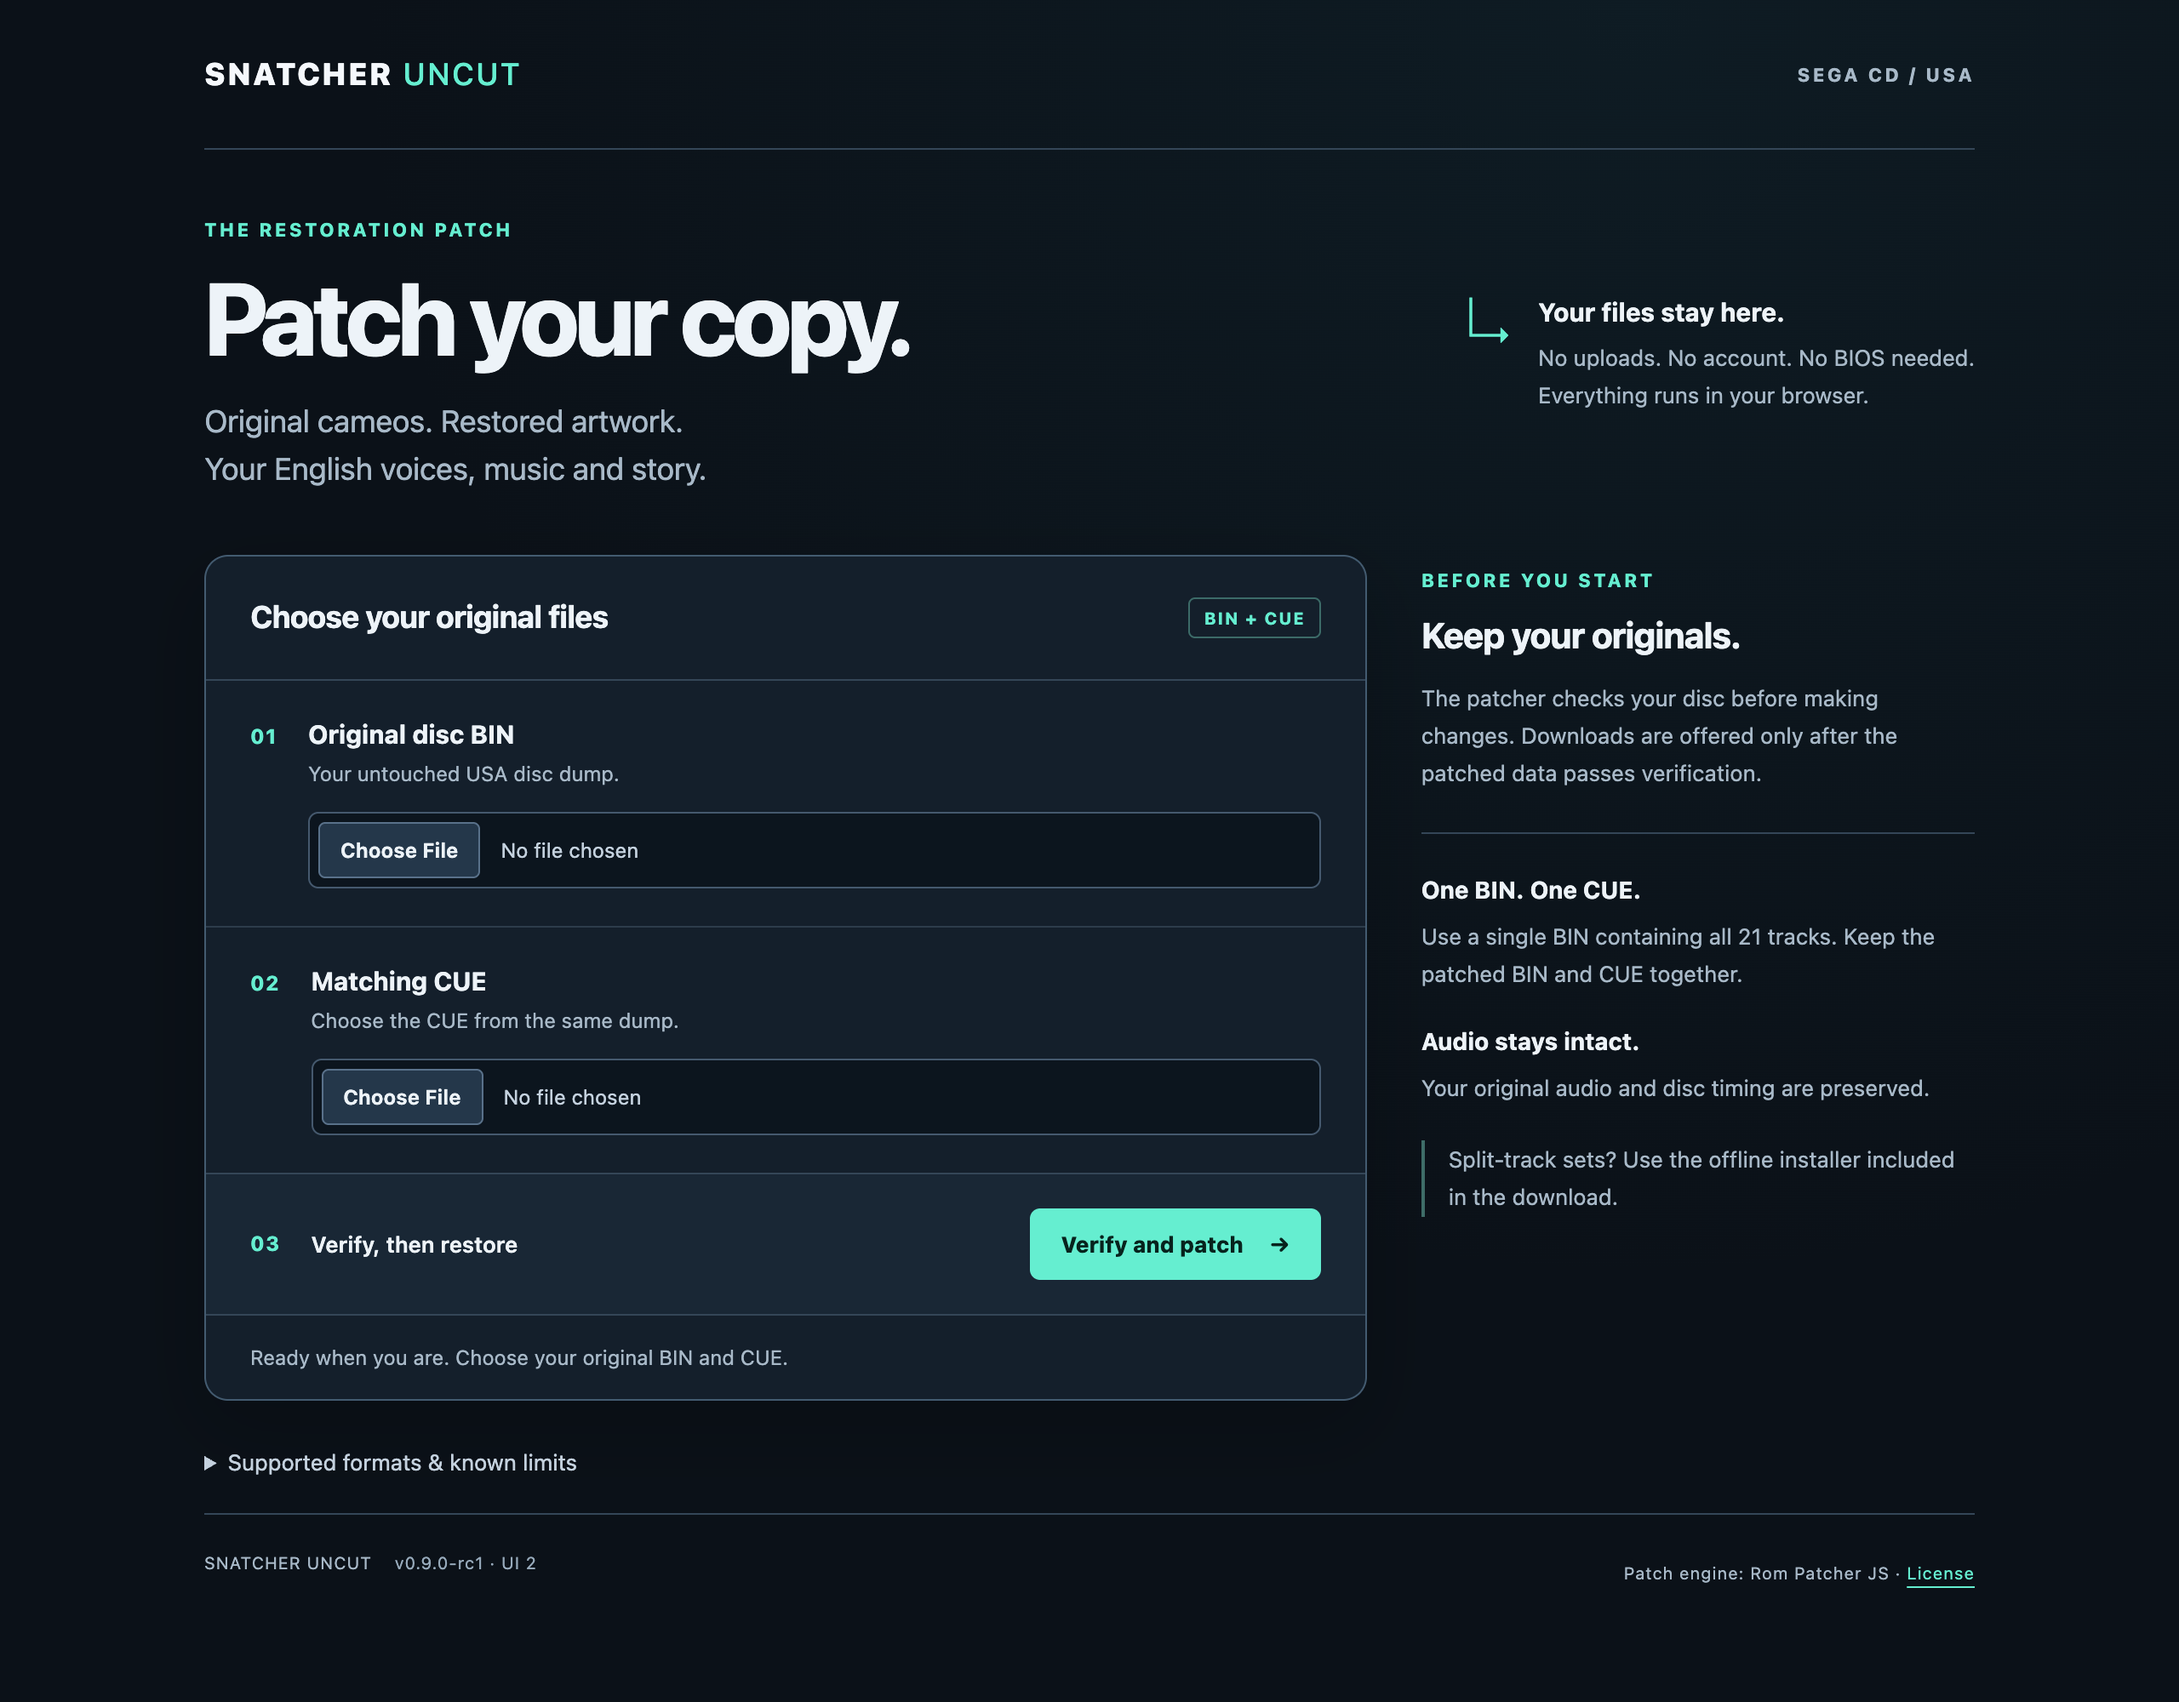
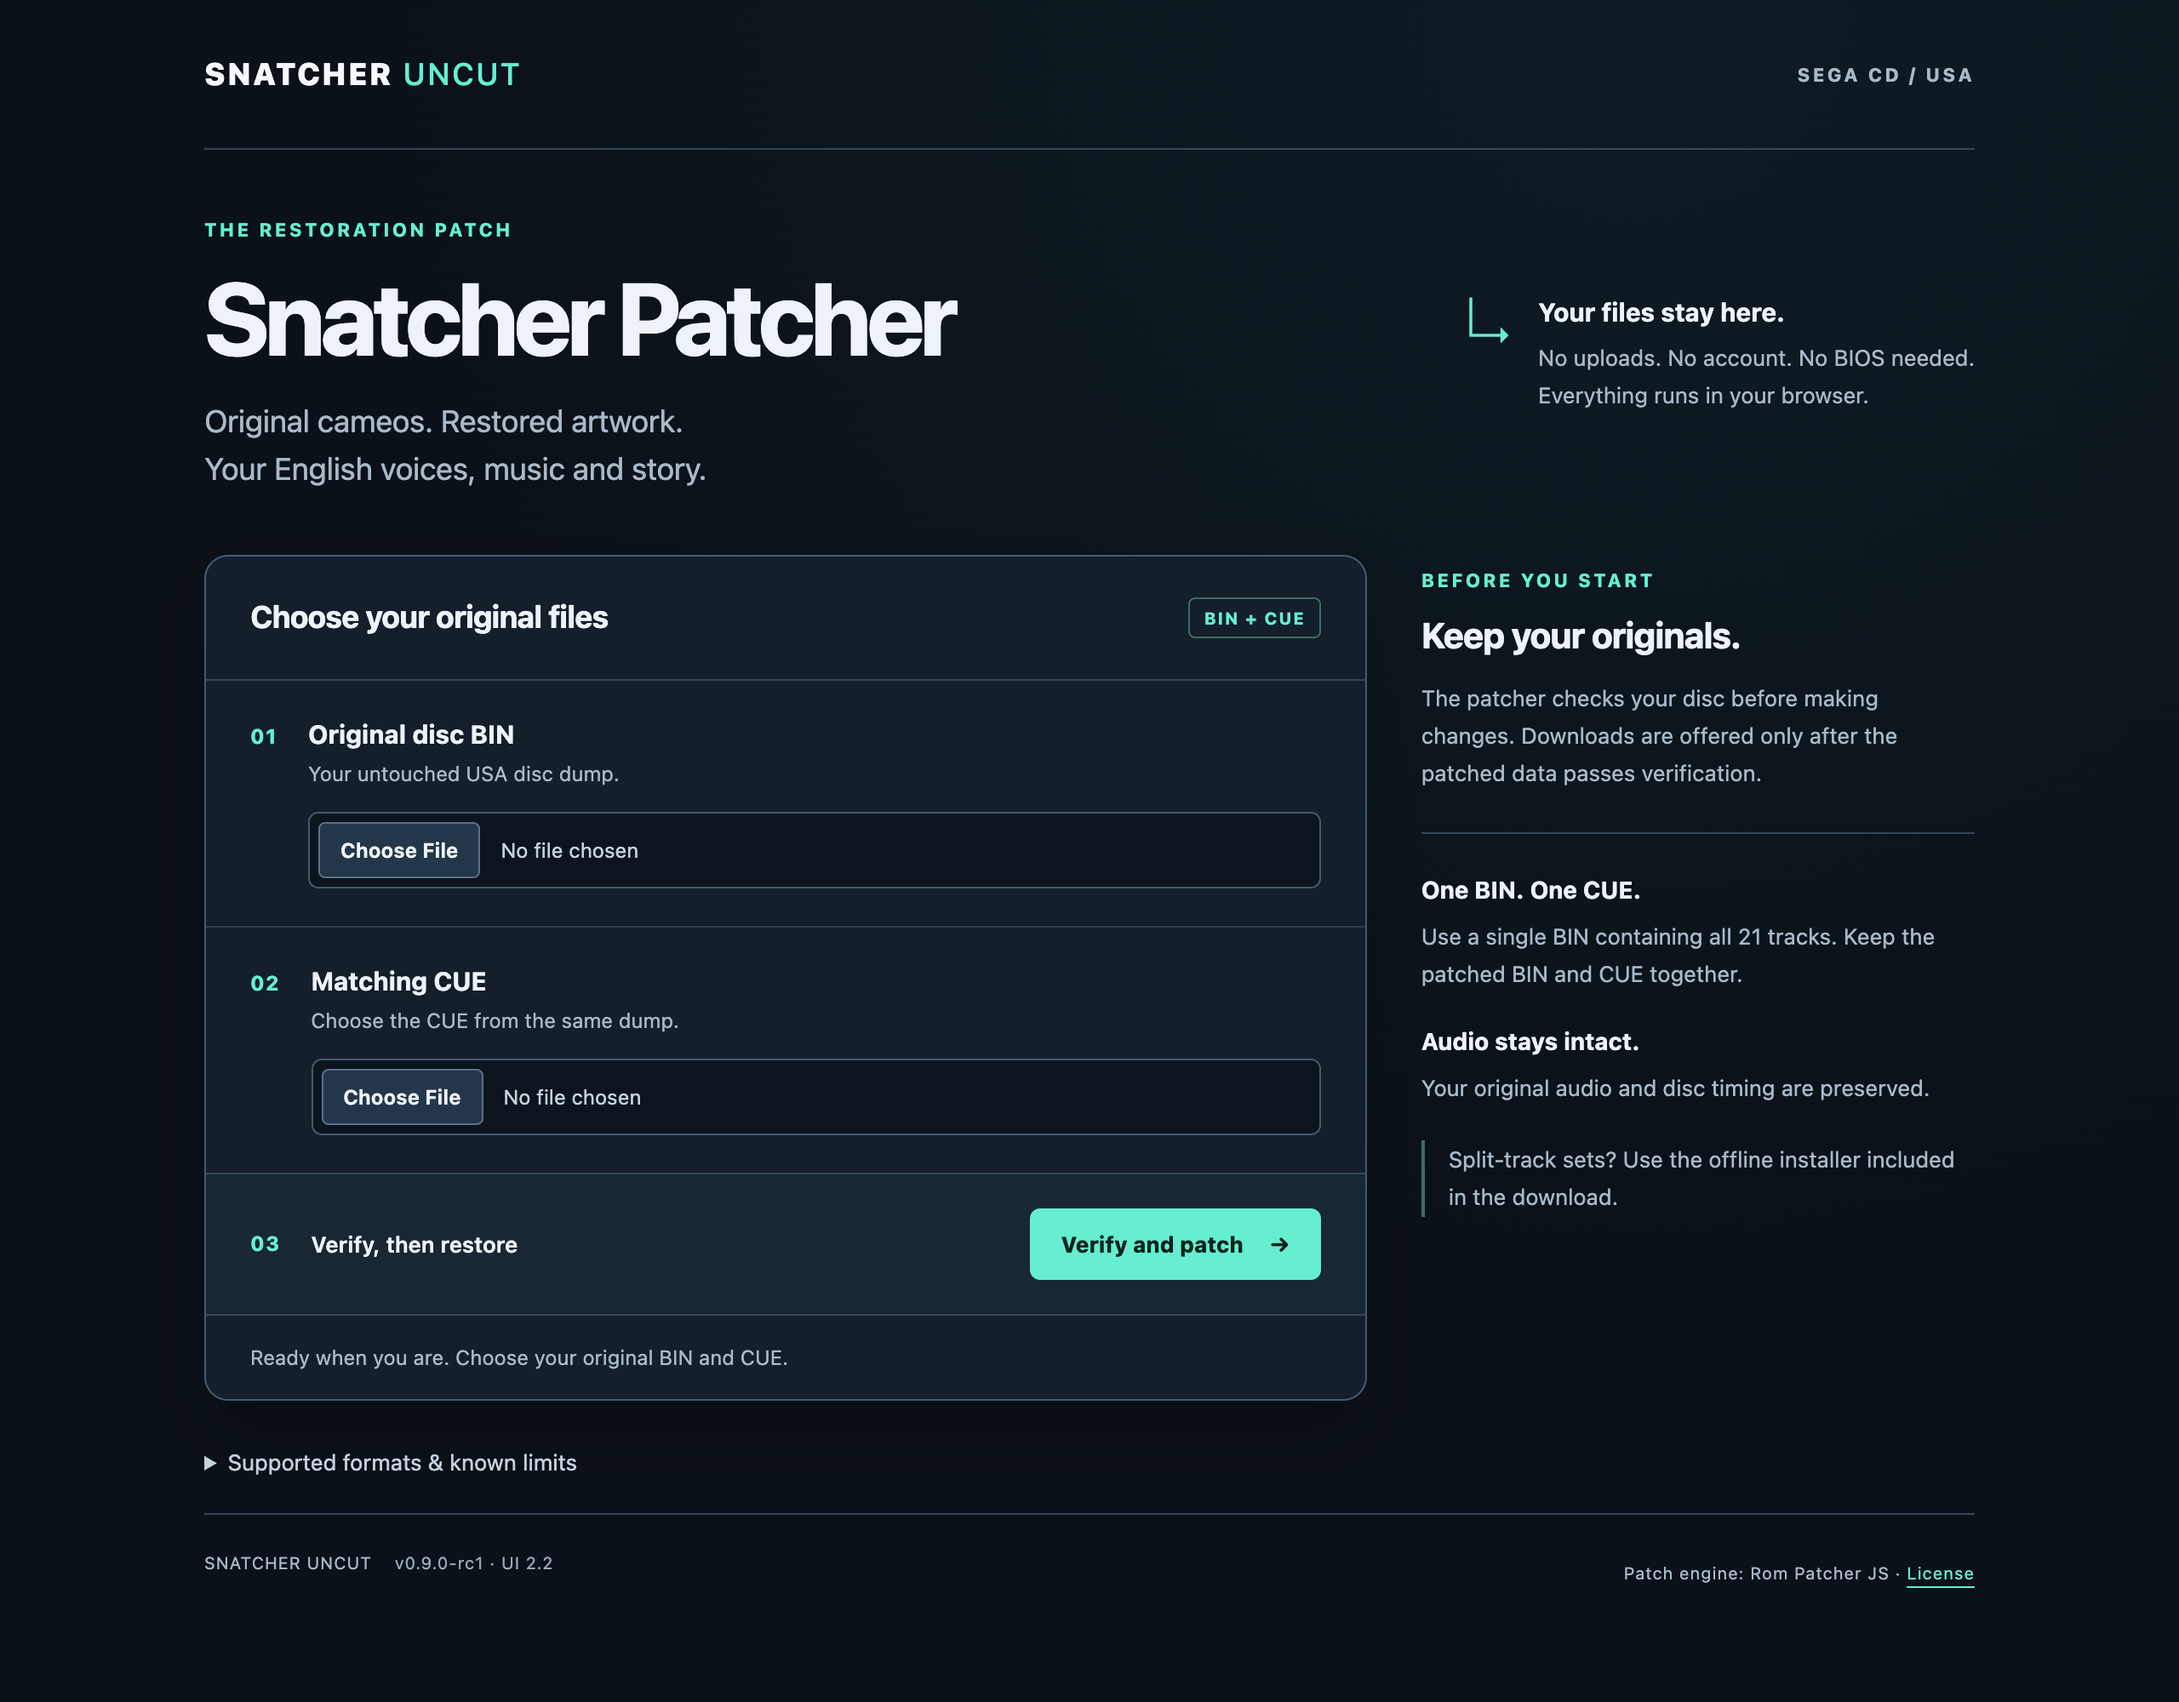
Rename browser tool to Snatcher Patcher

Changed region(s): [[0.0938, 0.155, 0.4375, 0.217]]

diff --git a/browser/index.html b/browser/index.html
@@ -4,14 +4,14 @@
 <meta charset="utf-8">
 <meta name="viewport" content="width=device-width,initial-scale=1">
 <meta http-equiv="Content-Security-Policy" content="default-src 'self' blob:; connect-src 'none'; script-src 'self'; style-src 'self'; img-src 'self' data:; object-src 'none'; base-uri 'none'; form-action 'none'">
-<title>Snatcher Uncut · Disc patcher</title>
+<title>Snatcher Patcher · Snatcher Uncut</title>
 <link rel="stylesheet" href="style.css">
 </head>
 <body>
 <main>
 <header class="masthead"><a class="wordmark" href="index.html">SNATCHER <span>UNCUT</span></a><span class="edition">SEGA CD / USA</span></header>
 <section class="intro" aria-labelledby="title">
-<div><p class="eyebrow">THE RESTORATION PATCH</p><h1 id="title">Patch your copy.</h1><p class="lede">Original cameos. Restored artwork.<br>Your English voices, music and story.</p></div>
+<div><p class="eyebrow">THE RESTORATION PATCH</p><h1 id="title">Snatcher Patcher</h1><p class="lede">Original cameos. Restored artwork.<br>Your English voices, music and story.</p></div>
 <div class="privacy"><span class="privacy-mark" aria-hidden="true">↳</span><div><strong>Your files stay here.</strong><p>No uploads. No account. No BIOS needed.<br>Everything runs in your browser.</p></div></div>
 </section>
 <div class="workspace">
@@ -28,7 +28,7 @@
 <aside class="guide"><p class="eyebrow">BEFORE YOU START</p><h2>Keep your originals.</h2><p>The patcher checks your disc before making changes. Downloads are offered only after the patched data passes verification.</p><div class="guide-rule"></div><h3>One BIN. One CUE.</h3><p>Use a single BIN containing all 21 tracks. Keep the patched BIN and CUE together.</p><h3>Audio stays intact.</h3><p>Your original audio and disc timing are preserved.</p><p class="small-note">Split-track sets? Use the offline installer included in the download.</p></aside>
 </div>
 <details class="limits"><summary>Supported formats &amp; known limits</summary><div class="limits-body"><p>USA raw Mode1/2352 Track 1: 131,744,928 bytes. SHA1: <code>1f4164205ed736a0d9a03eb7972868e9aa737d35</code>.</p><p>A raw Track 1 BIN is accepted with the CUE field empty. Its output needs the original audio tracks and a matching CUE to play. Full-disc BIN files require a single-file CUE with 21 tracks.</p><p>Wrong-region, wrong-revision, ISO/2048 and already-patched data do not pass validation. Extract CHD files first. Split-track CUE sets use the offline installer.</p><p>The emulator tests reached the ending and credits. Tested on a U.S. Genesis Model 2 with a Mega EverDrive Pro. Restored text says 1991; retained English speech says 1996.</p><p>AI tools assisted engineering, research, testing and writing. Game artwork comes from the game data.</p></div></details>
-<footer><span>SNATCHER UNCUT <span class="footer-version">v0.9.0-rc1 · UI 2</span></span><span>Patch engine: Rom Patcher JS · <a href="vendor/LICENSE">License</a></span></footer>
+<footer><span>SNATCHER UNCUT <span class="footer-version">v0.9.0-rc1 · UI 2.2</span></span><span>Patch engine: Rom Patcher JS · <a href="vendor/LICENSE">License</a></span></footer>
 </main>
 <script src="vendor/RomPatcher.js"></script>
 <script src="vendor/modules/BinFile.js"></script>

diff --git a/README.md b/README.md
@@ -25,7 +25,7 @@
 
 
 <p align="center">
-  <a href="https://github.com/t3chnaztea/snatcher-uncut-segacd/releases/download/v0.9.0-rc1/snatcher-uncut-player-v0.9.0-rc1-ui2.1.zip"><strong>Download the player patch</strong></a><br>
+  <a href="https://github.com/t3chnaztea/snatcher-uncut-segacd/releases/download/v0.9.0-rc1/snatcher-uncut-player-v0.9.0-rc1-ui2.2.zip"><strong>Download the player patch</strong></a><br>
   Free · v0.9.0-rc1 · UI2 installer · You'll need your own USA disc dump<br>
   Tested on my U.S. Genesis Model 2 with a Mega EverDrive Pro.<br><br>
   <a href="#see-the-changes">See the changes</a> · <a href="https://github.com/t3chnaztea/snatcher-uncut-segacd/releases/download/v0.9.0-rc1/snatcher-uncut-media-v0.9.0-rc1.zip">Download the comparison kit</a>
@@ -95,9 +95,9 @@ Game comparisons use actual emulator captures from graphics QA. Crops remove emp
 
 ## Patch your copy
 
-![Snatcher Uncut disc patcher with numbered BIN, CUE and Verify and patch steps.](media/assets/patcher-desktop.png)
+![Snatcher Patcher with numbered BIN, CUE and Verify and patch steps.](media/assets/patcher-desktop.png)
 
-1. [Download the player ZIP](https://github.com/t3chnaztea/snatcher-uncut-segacd/releases/download/v0.9.0-rc1/snatcher-uncut-player-v0.9.0-rc1-ui2.1.zip). Extract the entire folder.
+1. [Download the player ZIP](https://github.com/t3chnaztea/snatcher-uncut-segacd/releases/download/v0.9.0-rc1/snatcher-uncut-player-v0.9.0-rc1-ui2.2.zip). Extract the entire folder.
 2. Open `browser/index.html` in your browser.
 3. Under **01 · Original disc BIN**, choose your untouched USA BIN.
 4. Under **02 · Matching CUE**, choose the CUE from the same dump.
